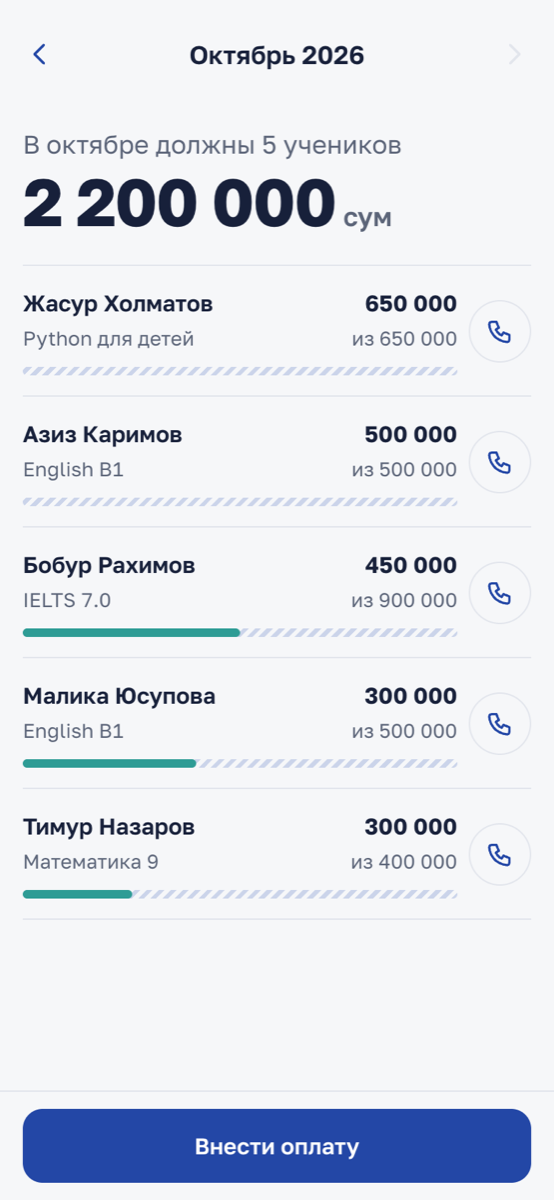
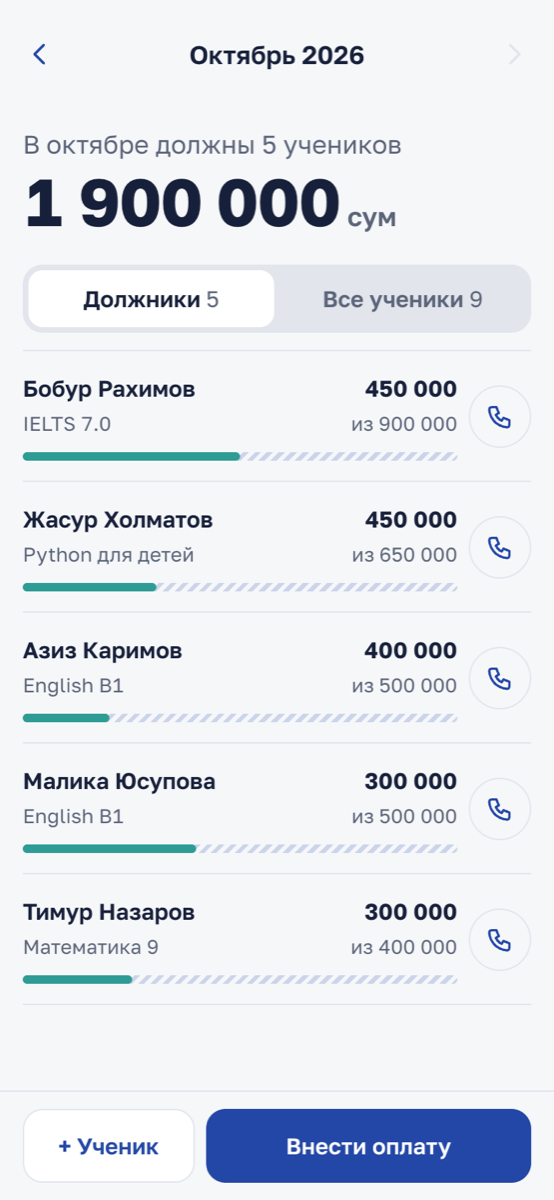
docs: describe the page features and refresh screenshots

diff --git a/README.md b/README.md
@@ -1,11 +1,19 @@
 # Учёт оплат учебного центра
 
-Тестовое задание Ecomdev. Внутри API для учеников, оплат и должников и веб-страница для телефона (вариант Б): список должников за месяц и форма оплаты.
+Тестовое задание Ecomdev. Внутри API для учеников, оплат и должников и веб-страница для телефона (вариант Б).
 
 <p>
   <img src="docs/debtors.png" width="280" alt="Должники за месяц на телефоне">
-  <img src="docs/payment.png" width="280" alt="Форма оплаты на телефоне">
+  <img src="docs/student.png" width="280" alt="Карточка ученика с историей оплат">
 </p>
+
+На странице:
+
+- должники за месяц, общий долг и шкала «внесено / недостаёт» у каждого; месяцы листаются стрелками;
+- переключатель «Должники / Все ученики»: у оплативших шкала заполнена, у записанных на будущее видно, с какого числа они учатся;
+- карточка ученика по тапу: долг за месяц, история оплат, кнопка звонка, изменение и удаление с подтверждением;
+- форма оплаты: ученик и сумма долга подставляются сами, дата по умолчанию сегодняшняя;
+- форма «+ Ученик» с датой «Учится с», от которой считаются долги.
 
 ## Запуск с нуля
 
@@ -16,14 +24,14 @@ git clone https://github.com/RiobVO/edu-payments.git
 cd edu-payments
 npm ci
 npm run build
-npm run seed     # необязательно: 8 демо-учеников с оплатами за прошлый и текущий месяц
+npm run seed     # необязательно: 9 демо-учеников с оплатами за прошлый и текущий месяц
 npm start        # страница и API на http://localhost:3000
 ```
 
 Проверки:
 
 ```bash
-npm test             # 59 тестов: API, расчёт долгов, валидация, отдача страницы
+npm test             # 64 теста: API, расчёт долгов, валидация, отдача страницы
 npm run typecheck
 ```
 
@@ -55,9 +63,10 @@ npm run typecheck
 Неверные данные возвращают `400` с описанием поля, несуществующий ученик — `404`. Проверка строгая: `"500000"` вместо числа, `true` или неизвестное поле (например, опечатка `monthly_fee`) тоже дают `400`, а не тихо приводятся или пропускаются.
 
 ```bash
-# ученик: имя, телефон, группа, сумма в месяц (целое число, сумы)
+# ученик: имя, телефон, группа, сумма в месяц (целое число, сумы);
+# startDate — с какого дня учится, необязательно (по умолчанию сегодня)
 curl -X POST localhost:3000/students -H 'Content-Type: application/json' \
-  -d '{"name":"Азиз Каримов","phone":"+998 90 123-45-67","group":"English B1","monthlyFee":500000}'
+  -d '{"name":"Азиз Каримов","phone":"+998 90 123-45-67","group":"English B1","monthlyFee":500000,"startDate":"2026-09-01"}'
 
 curl -X PATCH localhost:3000/students/1 -H 'Content-Type: application/json' -d '{"monthlyFee":550000}'
 
@@ -92,7 +101,7 @@ curl 'localhost:3000/debtors?month=2026-10'
 - Долг за месяц — это месячная сумма минус оплаты, дата которых попадает в этот месяц. Несколько оплат складываются.
 - Ученик без единой оплаты за месяц попадает в должники на всю сумму.
 - Кто заплатил ровно или больше, тот не должник. Переплата на следующий месяц не переносится.
-- Кто записался после выбранного месяца, за него не должен. Записавшийся в середине месяца должен полную сумму.
+- Кто начал учиться после выбранного месяца (поле `startDate`), за него не должен. Начавший в середине месяца должен полную сумму.
 - «Сегодня» и «текущий месяц» считаются по Ташкенту. Оплата, внесённая 1-го числа в 01:00, относится к новому месяцу, хотя по UTC это ещё предыдущий.
 - В списке сначала идут самые большие долги.
 
@@ -124,6 +133,6 @@ test/           тесты Vitest через fastify.inject, без поднят
 
 1. Авторизация. Сейчас API открыт любому, кто достучится до порта, а речь идёт о деньгах. Нужен вход для сотрудников и роли: администратор вносит оплаты, владелец смотрит отчёты.
 2. Месяц оплаты отдельно от даты. Сейчас оплата засчитывается в месяц своей даты. Если ученик в октябре гасит сентябрьский долг, деньги уйдут в октябрь. Нужно поле «за какой месяц» и перенос переплаты на следующие месяцы.
-3. История тарифов. Если поменять месячную сумму, пересчитаются и долги за прошлые месяцы. Нужна таблица тарифов с датой начала действия, а для тех, кто пришёл в середине месяца, — расчёт пропорционально дням.
+3. История тарифов. Если поменять месячную сумму, пересчитаются и долги за прошлые месяцы. Нужна таблица тарифов с датой начала действия, а для тех, кто начал в середине месяца, — расчёт пропорционально дням.
 4. Архив вместо удаления и отмена ошибочной оплаты. Ушедший ученик остаётся в архиве со всей историей, ошибочную оплату можно отменить с указанием причины, все изменения пишутся в журнал.
 5. Telegram-бот (вариант А) поверх того же API, напоминания должникам и e2e-тест страницы в CI.
